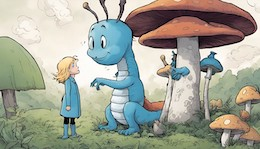
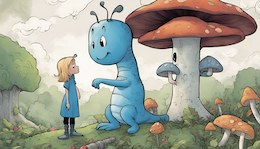
Bild geändert

diff --git a/docs/posts/2023101602_alice_raupe/index.html b/docs/posts/2023101602_alice_raupe/index.html
@@ -162,7 +162,7 @@ ul.task-list li input[type="checkbox"] {
 <p>Nachdem gestern abend <em>Hugging Face</em> vermutlich wegen Überlastung mal wieder eine Auszeit genommen hatte<a href="#fn1" class="footnote-ref" id="fnref1" role="doc-noteref"><sup>1</sup></a> und ich daher nicht mit der <em><a href="http://cognitiones.kantel-chaos-team.de/multimedia/computergraphik/comicfactory.html">AI Comic Factory</a></em> weiter spielen konnte, hatte ich <em><a href="https://beta.dreamstudio.ai/generate">DreamStudio</a></em> angeworfen, um ein wenig zu testen, ob und wie diese Anwendung Bilder mit konsistenten Charakteren generieren kann.</p>
 <p>Dazu habe ich erst einmal ein Referenzbild mit dem Prompt <code>A blue (caterpillar) sits upright on a giant mushroom and smokes from a (pipe). (little girl alice) with blonde hair and blue eyes visits him and asks a question</code><a href="#fn2" class="footnote-ref" id="fnref2" role="doc-noteref"><sup>2</sup></a> und dem Negativ-Prompt <code>double person</code> erzeugt. Als Modell habe ich <em>Stable Diffusion XL</em> in der Version <em>(stable-diffusion-xl-1024-v1-0)</em> und als Filter <em>Comic Book</em> gewählt.</p>
 <p>Von diesem Referenzbild habe ich dann eine Reihe von Variationen erzeugt (insgesamt sechzehn Bilder). Die sechs gelungensten von ihnen (im Hinblick auf möglichst konsistente Charaktere) waren diese:</p>
-<p><a href="https://www.flickr.com/photos/schockwellenreiter/53262426901/"><img src="images/aliceraupe01.jpg" class="img-fluid"></a>&nbsp;<a href="https://www.flickr.com/photos/schockwellenreiter/53262720038/"><img src="images/aliceraupe02.jpg" class="img-fluid"></a>&nbsp;<a href="https://www.flickr.com/photos/schockwellenreiter/53262776789/"><img src="images/aliceraupe03.jpg" class="img-fluid"></a><br><br> <a href="https://www.flickr.com/photos/schockwellenreiter/53262908700/"><img src="images/aliceraupe04.jpg" class="img-fluid"></a>&nbsp;<a href="https://www.flickr.com/photos/schockwellenreiter/53262908775/"><img src="images/aliceraupe05.jpg" class="img-fluid"></a>&nbsp;<a href="https://www.flickr.com/photos/schockwellenreiter/53262908765/"><img src="images/aliceraupe06.jpg" class="img-fluid"></a></p>
+<p><a href="https://www.flickr.com/photos/schockwellenreiter/53262426901/"><img src="images/aliceraupe01.jpg" class="img-fluid"></a>&nbsp;<a href="https://www.flickr.com/photos/schockwellenreiter/53262720038/"><img src="images/aliceraupe02.jpg" class="img-fluid"></a>&nbsp;<a href="https://www.flickr.com/photos/schockwellenreiter/53262776789/"><img src="images/aliceraupe03.jpg" class="img-fluid"></a><br><br> <a href="https://www.flickr.com/photos/schockwellenreiter/53262908700/"><img src="images/aliceraupe04.jpg" class="img-fluid"></a>&nbsp;<a href="https://www.flickr.com/photos/schockwellenreiter/53262908775/"><img src="images/aliceraupe05.jpg" class="img-fluid"></a>&nbsp;<a href="https://www.flickr.com/photos/schockwellenreiter/53262426896/"><img src="images/aliceraupe06.jpg" class="img-fluid"></a></p>
 <p><em>Mit einem Klick auf die Vorschaubilder kommt Ihr je zu eine Seite mit einer Vergrößerung.</em></p>
 <p>Die Bilder sind auch dank des Filters <em>Comic Book</em> so überzeugend geraten. Allerdings habe ich viele Prompt-Variationen durchspielen müssen, bis ich ein Referenzbild hatte, mit dem ich weiterarbeiten konnte.</p>
 <p>Das Ergebnis dieses Versuches läßt mich hoffen, daß ich tatsächlich mit der Technik der Referenzbilder in <em>Stable Diffusion</em>-Applikationen wie <em>DreamStudio</em>, <em><a href="http://cognitiones.kantel-chaos-team.de/technikgeschichte/rechnerundnetze/leonardoai.html">Leonardo AI</a></em> oder <em><a href="http://cognitiones.kantel-chaos-team.de/technikgeschichte/rechnerundnetze/playgroundai.html">Playground AI</a></em> konsistente Charaktere für eine komplette, bebilderte, interaktive Geschichte zum Beispiel mit <a href="http://cognitiones.kantel-chaos-team.de/multimedia/spieleprogrammierung/twine2.html">Twine</a> generieren kann.</p>

diff --git a/docs/index.html b/docs/index.html
@@ -163,7 +163,7 @@ ul.task-list li input[type="checkbox"] {
 
 <div class="quarto-listing quarto-listing-container-default" id="listing-listing">
 <div class="list quarto-listing-default">
-<div class="quarto-post image-right" data-index="0" data-categories="Bilder,Künstliche Intelligenz,Interactive Fiction,Twine,Alice" data-listing-date-sort="1697472000000" data-listing-file-modified-sort="1697472824029" data-listing-date-modified-sort="NaN" data-listing-reading-time-sort="2">
+<div class="quarto-post image-right" data-index="0" data-categories="Bilder,Künstliche Intelligenz,Interactive Fiction,Twine,Alice" data-listing-date-sort="1697472000000" data-listing-file-modified-sort="1697548346584" data-listing-date-modified-sort="NaN" data-listing-reading-time-sort="2">
 <div class="thumbnail">
 <p><a href="./posts/2023101602_alice_raupe/index.html"> <img src="./posts/2023101602_alice_raupe/images/aliceraupe00.jpg" class="thumbnail-image"> </a></p>
 </div>
